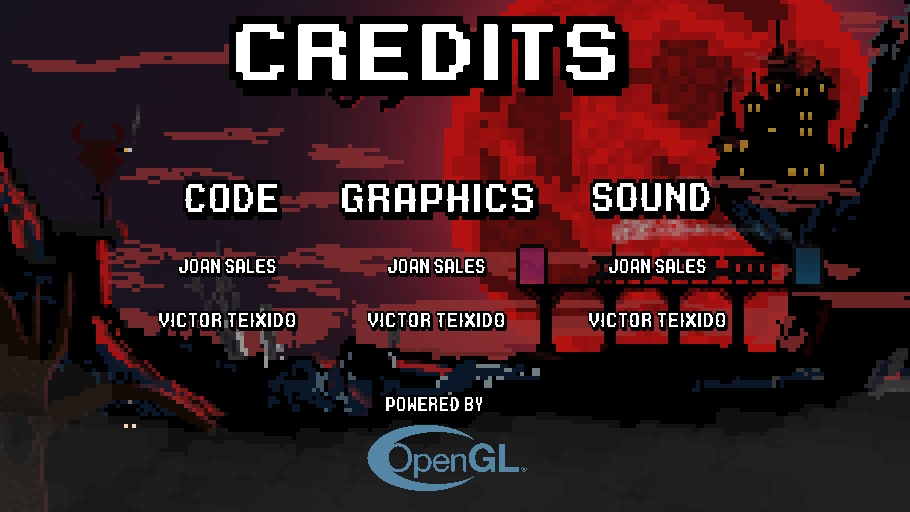
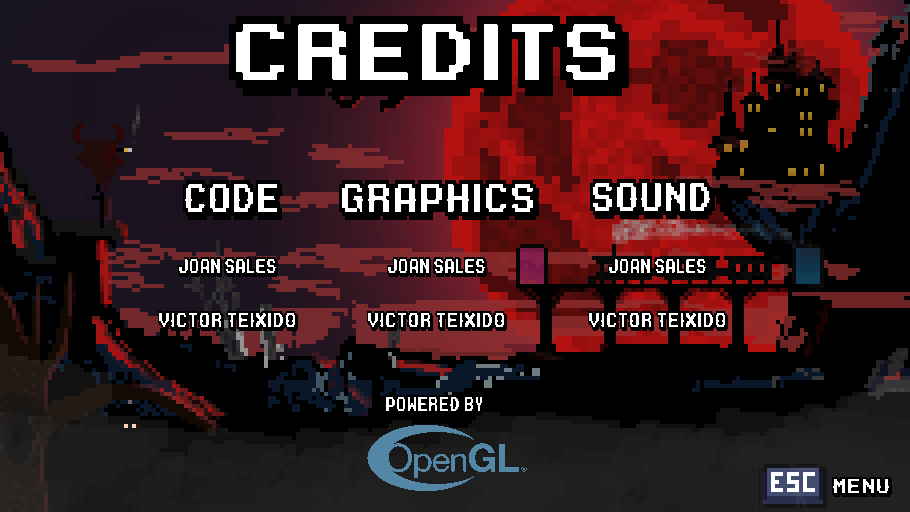
help screen started

Changed region(s): [[0.8308, 0.9062, 0.9846, 1.0]]

diff --git a/02-Bubble/02-Bubble/Menu.cpp b/02-Bubble/02-Bubble/Menu.cpp
@@ -32,21 +32,26 @@ void Menu::init(ShaderProgram& shaderProgram)
 	//spritesheet.loadFromFile("images/menu_img.png", TEXTURE_PIXEL_FORMAT_RGBA);
 	//spritesheet.setMagFilter(GL_NEAREST);
 	//sprite = Sprite::createSprite(glm::ivec2(720, 405), glm::vec2(1, 1), &spritesheet, &shaderProgram);
-	menuSpritesheet.loadFromFile("images/menu_title.png", TEXTURE_PIXEL_FORMAT_RGBA);
-	menuSpritesheet.setMagFilter(GL_NEAREST);
-	menuSprite = Sprite::createSprite(glm::ivec2(720, 405), glm::vec2(0.5f, 0.5f), &menuSpritesheet, &shaderProgram);
+	mainSpritesheet.loadFromFile("images/menu.png", TEXTURE_PIXEL_FORMAT_RGBA);
+	mainSpritesheet.setMagFilter(GL_NEAREST);
+	mainSprite = Sprite::createSprite(glm::ivec2(720, 405), glm::vec2(0.5f, 0.5f), &mainSpritesheet, &shaderProgram);
 	
-	menuSprite->setNumberAnimations(3);
-	menuSprite->setAnimationSpeed(0, 1);
-	menuSprite->addKeyframe(0, glm::vec2(0.f, 0.f));
-	menuSprite->setAnimationSpeed(1, 1);
-	menuSprite->addKeyframe(1, glm::vec2(0.5f, 0.f));
-	menuSprite->setAnimationSpeed(2, 1);
-	menuSprite->addKeyframe(2, glm::vec2(0.f, 0.5f));
+	mainSprite->setNumberAnimations(3);
+	mainSprite->setAnimationSpeed(0, 1);
+	mainSprite->addKeyframe(0, glm::vec2(0.f, 0.f));
+	mainSprite->setAnimationSpeed(1, 1);
+	mainSprite->addKeyframe(1, glm::vec2(0.5f, 0.f));
+	mainSprite->setAnimationSpeed(2, 1);
+	mainSprite->addKeyframe(2, glm::vec2(0.f, 0.5f));
 
-	menuSprite->changeAnimation(0);
-	menuSprite->setPosition(glm::vec2(0.f, 0.f));
+	mainSprite->changeAnimation(0);
+	mainSprite->setPosition(glm::vec2(0.f, 0.f));
 	
+	helpSpriteSheet.loadFromFile("images/help1.png", TEXTURE_PIXEL_FORMAT_RGBA);
+	helpSpriteSheet.setMagFilter(GL_NEAREST);
+	helpSprite = Sprite::createSprite(glm::ivec2(720, 405), glm::vec2(1.f, 1.f), &helpSpriteSheet, &shaderProgram);
+	helpSprite->setPosition(glm::vec2(0.f, 0.f));
+
 	creditsSpriteSheet.loadFromFile("images/credits.png", TEXTURE_PIXEL_FORMAT_RGBA);
 	creditsSpriteSheet.setMagFilter(GL_NEAREST);
 	creditsSprite = Sprite::createSprite(glm::ivec2(720, 405), glm::vec2(1.f, 1.f), &creditsSpriteSheet, &shaderProgram);
@@ -55,21 +60,41 @@ void Menu::init(ShaderProgram& shaderProgram)
 
 void Menu::update(int deltaTime)
 {
-	if (bOptionsShowing)
-		menuSprite->update(deltaTime);
-	else
+	switch (state)
+	{
+	case Main:
+		mainSprite->update(deltaTime);
+		break;
+	case Help:
+		helpSprite->update(deltaTime);
+		break;
+	case Credits:
 		creditsSprite->update(deltaTime);
+		break;
+	default:
+		break;
+	}
 }
 
 void Menu::render()
 {
-	if (bOptionsShowing)
-		menuSprite->render();
-	else
+	switch (state)
+	{
+	case Main:
+		mainSprite->render();
+		break;
+	case Help:
+		helpSprite->render();
+		break;
+	case Credits:
 		creditsSprite->render();
+		break;
+	default:
+		break;
+	}
 }
 
 void Menu::setSelection(int i)
 {
-	menuSprite->changeAnimation(i);
+	mainSprite->changeAnimation(i);
 }

diff --git a/02-Bubble/02-Bubble/Game.cpp b/02-Bubble/02-Bubble/Game.cpp
@@ -62,7 +62,11 @@ void Game::keyPressed(int key)
 {
 	cout << key << endl;
 	if (key == 27) // Escape code
-		bPlay = false;
+	{
+		bMenuShowing = true;
+		menu.setMenuState(Main);
+	}
+		//bPlay = false;
 	if (key == 13 && bMenuShowing) // Enter code
 		optionSelected();
 	if (key == 49)
@@ -81,7 +85,7 @@ void Game::keyPressed(int key)
 		loadFirstStage();
 	}
 	if (key == 99) // 'c'
-		menu.setOptionsShowing(false);
+		menu.setMenuState(Credits);
 	if (key == 103)
 	{
 		if (!scene->getPlayerInvencible())
@@ -97,8 +101,6 @@ void Game::keyPressed(int key)
 	}
 	if (key == 107)
 		scene->makeKeyAppear();
-	if (key == 109) // 'm'
-		menu.setOptionsShowing(true);
 	keys[key] = true;
 }
 
@@ -297,6 +299,7 @@ void Game::optionSelected()
 	case Instructions:
 		// Mostrar instrucciones
 		cout << "showing intructions..." << endl;
+		menu.setMenuState(Help);
 		break;
 	case Exit:
 		cout << "Exiting..." << endl;

diff --git a/02-Bubble/02-Bubble/Menu.h b/02-Bubble/02-Bubble/Menu.h
@@ -4,6 +4,7 @@
 
 #include <glm/glm.hpp>
 #include "ShaderProgram.h"
+#include "MenuState.h"
 
 
 // Menu contains all the entities of our game.
@@ -21,15 +22,16 @@ public:
 	void update(int deltaTime);
 	void render();
 	void setSelection(int i);
-	void setOptionsShowing(bool b) { bOptionsShowing = b; };
+	void setMenuState(MenuState m) { state = m; };
 
 private:
 	ShaderProgram texProgram;
-	Texture menuSpritesheet, creditsSpriteSheet;
-	Sprite* menuSprite;
+	Texture mainSpritesheet, helpSpriteSheet, creditsSpriteSheet;
+	Sprite* mainSprite;
+	Sprite* helpSprite;
 	Sprite* creditsSprite;
 
-	bool bOptionsShowing = true;
+	MenuState state = Main;
 };
 
 

diff --git a/02-Bubble/02-Bubble/MenuState.h b/02-Bubble/02-Bubble/MenuState.h
@@ -1,0 +1,11 @@
+#ifndef MENU_STATE_H
+#define MENU_STATE_H
+
+enum MenuState
+{
+	Main,
+	Help,
+	Credits
+};
+
+#endif
